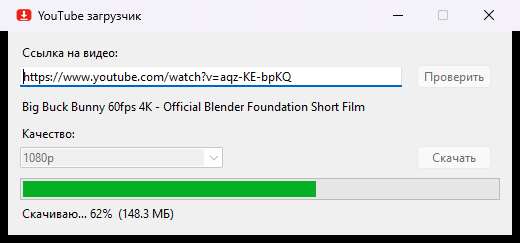
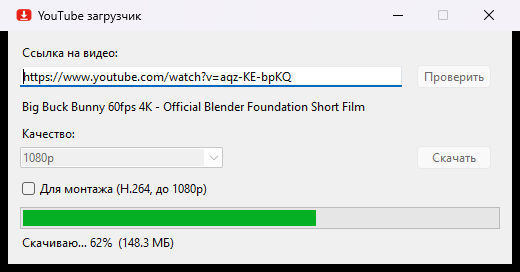
Add editing mode: H.264 downloads for Premiere and other editors
YouTube serves AV1/VP9 by default, which Premiere Pro refuses to import.
A new "Для монтажа" checkbox limits the quality list to resolutions
available in H.264 (up to 1080p) and downloads H.264 + AAC in MP4.
The checkbox state is saved in %APPDATA%\yt_downloader\settings.json.

diff --git a/README.md b/README.md
@@ -25,6 +25,7 @@
 - **Real quality list.** The dropdown shows only the resolutions the video actually has, from 144p up to 4K.
 - **Audio only.** One option saves just the sound as MP3.
 - **Smart formats.** MP4 + M4A streams come first so files open anywhere on Windows. The video and audio tracks are merged automatically with ffmpeg.
+- **Editing mode.** One checkbox switches to H.264 + AAC, the format Premiere Pro and other editors import without trouble. YouTube's default AV1 and VP9 are often rejected. YouTube offers H.264 only up to 1080p, so in this mode the list stops there. The checkbox is remembered between launches.
 - **Live progress.** A progress bar with percent and megabytes downloaded.
 - **Lives in the tray.** The close button hides the window to the tray. Exit from the tray icon menu.
 - **Starts with Windows.** It can launch silently in the tray when you log in.
